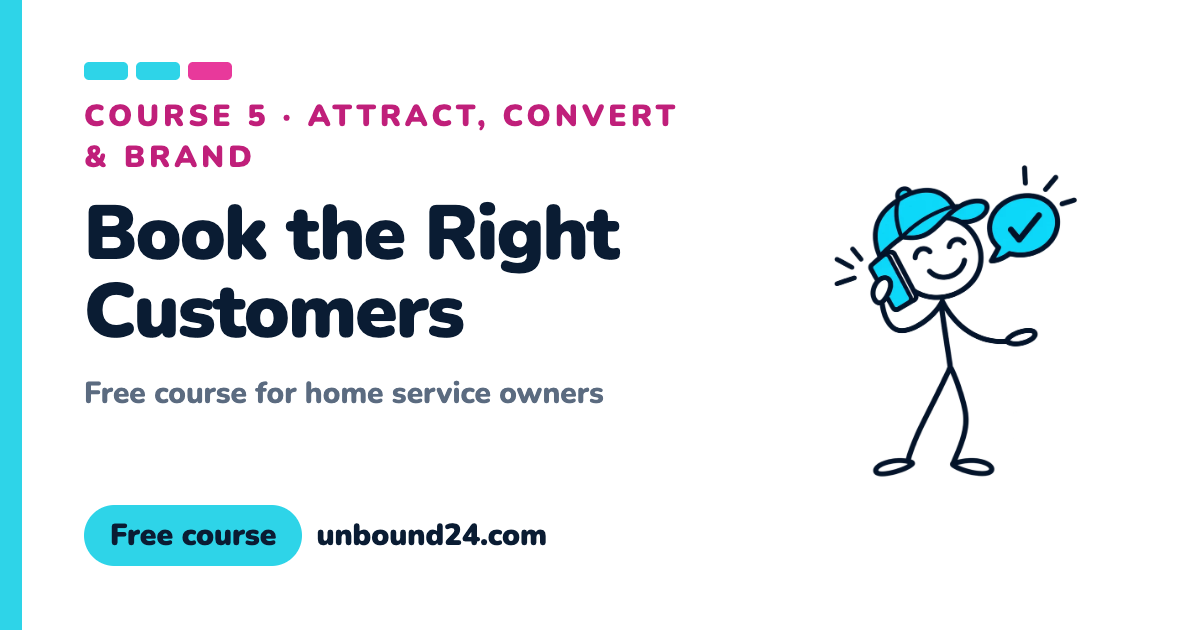
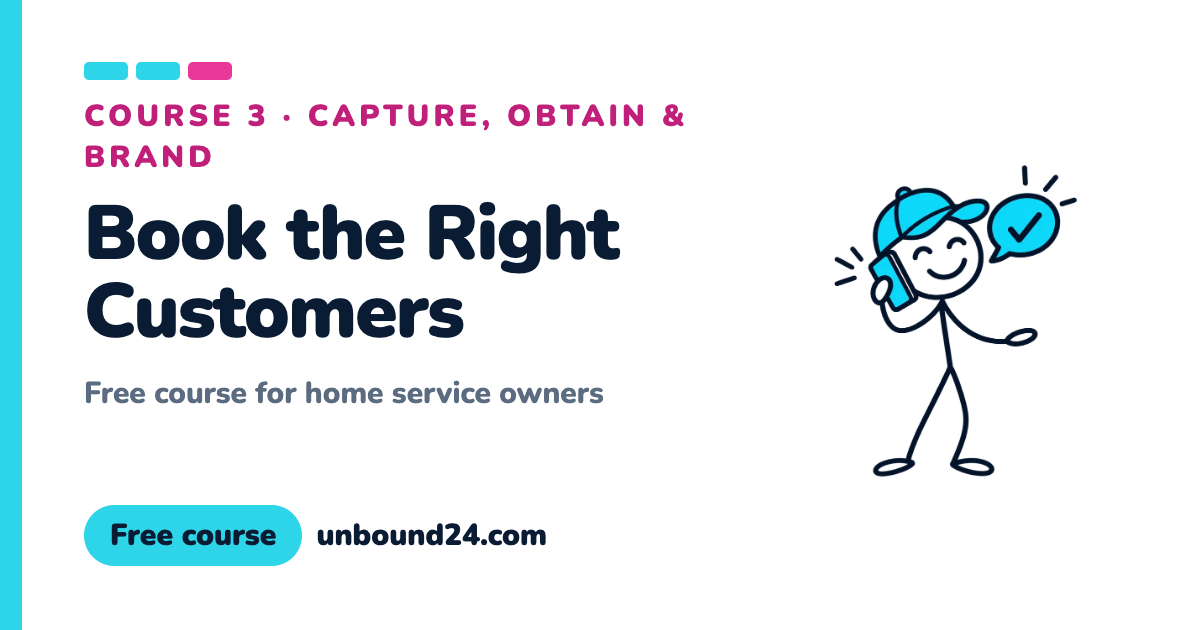
Four pillars built to CODE: Capture, Obtain, Deliver, Extend
Delivery moves from the foundation into the pillars; Reputation folds into
Extend (Earn the 5 Stars lessons join Customers for Life). Courses reorder
to CODE: 3 Book the Right Customers, 4 Same Great Job, 5 Customers for Life.
Lesson 1.1 house, 2.1 four processes, 1.3/1.4 SOP pages and /boss updated.

Changed region(s): [[0.2467, 0.1508, 0.5858, 0.2111], [0.0617, 0.2111, 0.2158, 0.2714]]

diff --git a/src/content/course.ts b/src/content/course.ts
@@ -2,7 +2,7 @@ import lessonData from "./course-lessons.json";
 
 // Lesson content started from the Own Your 24 lesson scripts in Notion.
 // The course library (2026-11-02, matches Notion): Hands-On AI as a Power Tool is the Start Here course
-// (Own Your 24 is its lesson 1.2), then Get It Out of Your Head, then one course per part of the house.
+// (Own Your 24 is its lesson 1.2), then Get It Out of Your Head (the foundation), then the four pillars in CODE order: Capture + Obtain, Deliver, Extend (2026-11-08).
 // Every lesson follows one format: 3-5 key takeaways, the action, one section per takeaway
 // (written as bullets), the action again, then the save-progress box.
 
@@ -74,33 +74,27 @@ export const COURSES: Course[] = [
       "Write down how your business runs and track the numbers that matter, so your team (and AI) can follow along without calling you. Then turn it into Claude skills that do the work with you.",
   },
   {
-    slug: "same-great-job",
-    num: 3,
-    title: "Same Great Job, Every Time",
-    topic: "Delivery",
-    description: "Define your services, do them the same way every time, and own it when something goes wrong.",
-  },
-  {
-    slug: "earn-the-5-stars",
-    num: 4,
-    title: "Earn the 5 Stars",
-    topic: "Reputation",
-    description: "Keep your promises, earn five-star reviews, put them to work, and handle the bad ones with class.",
-  },
-  {
     slug: "book-the-right-customers",
-    num: 5,
+    num: 3,
     title: "Book the Right Customers",
-    topic: "Attract, Convert & Brand",
+    topic: "Capture, Obtain & Brand",
     description:
       "Know who you serve, be easy to find, and make it easy to say yes. Your brand, website, Google, and social media basics.",
   },
   {
+    slug: "same-great-job",
+    num: 4,
+    title: "Same Great Job, Every Time",
+    topic: "Deliver",
+    description: "Define your services, do them the same way every time, and own it when something goes wrong.",
+  },
+  {
     slug: "customers-for-life",
-    num: 6,
+    num: 5,
     title: "Customers for Life",
-    topic: "Retain",
-    description: "Keep customers coming back, and sending their friends.",
+    topic: "Extend",
+    description:
+      "Keep the relationship going after the job: ask for feedback, earn five-star reviews, get referrals, and be the one they call next time.",
   },
 ];
 

diff --git a/src/app/page.tsx b/src/app/page.tsx
@@ -196,11 +196,10 @@ export default function Home() {
 const AREAS = [
   "Documentation",
   "Data",
-  "Delivery",
-  "Reputation",
-  "Attract",
-  "Convert",
-  "Retain",
+  "Capture",
+  "Obtain",
+  "Deliver",
+  "Extend",
   "Brand",
 ];
 
